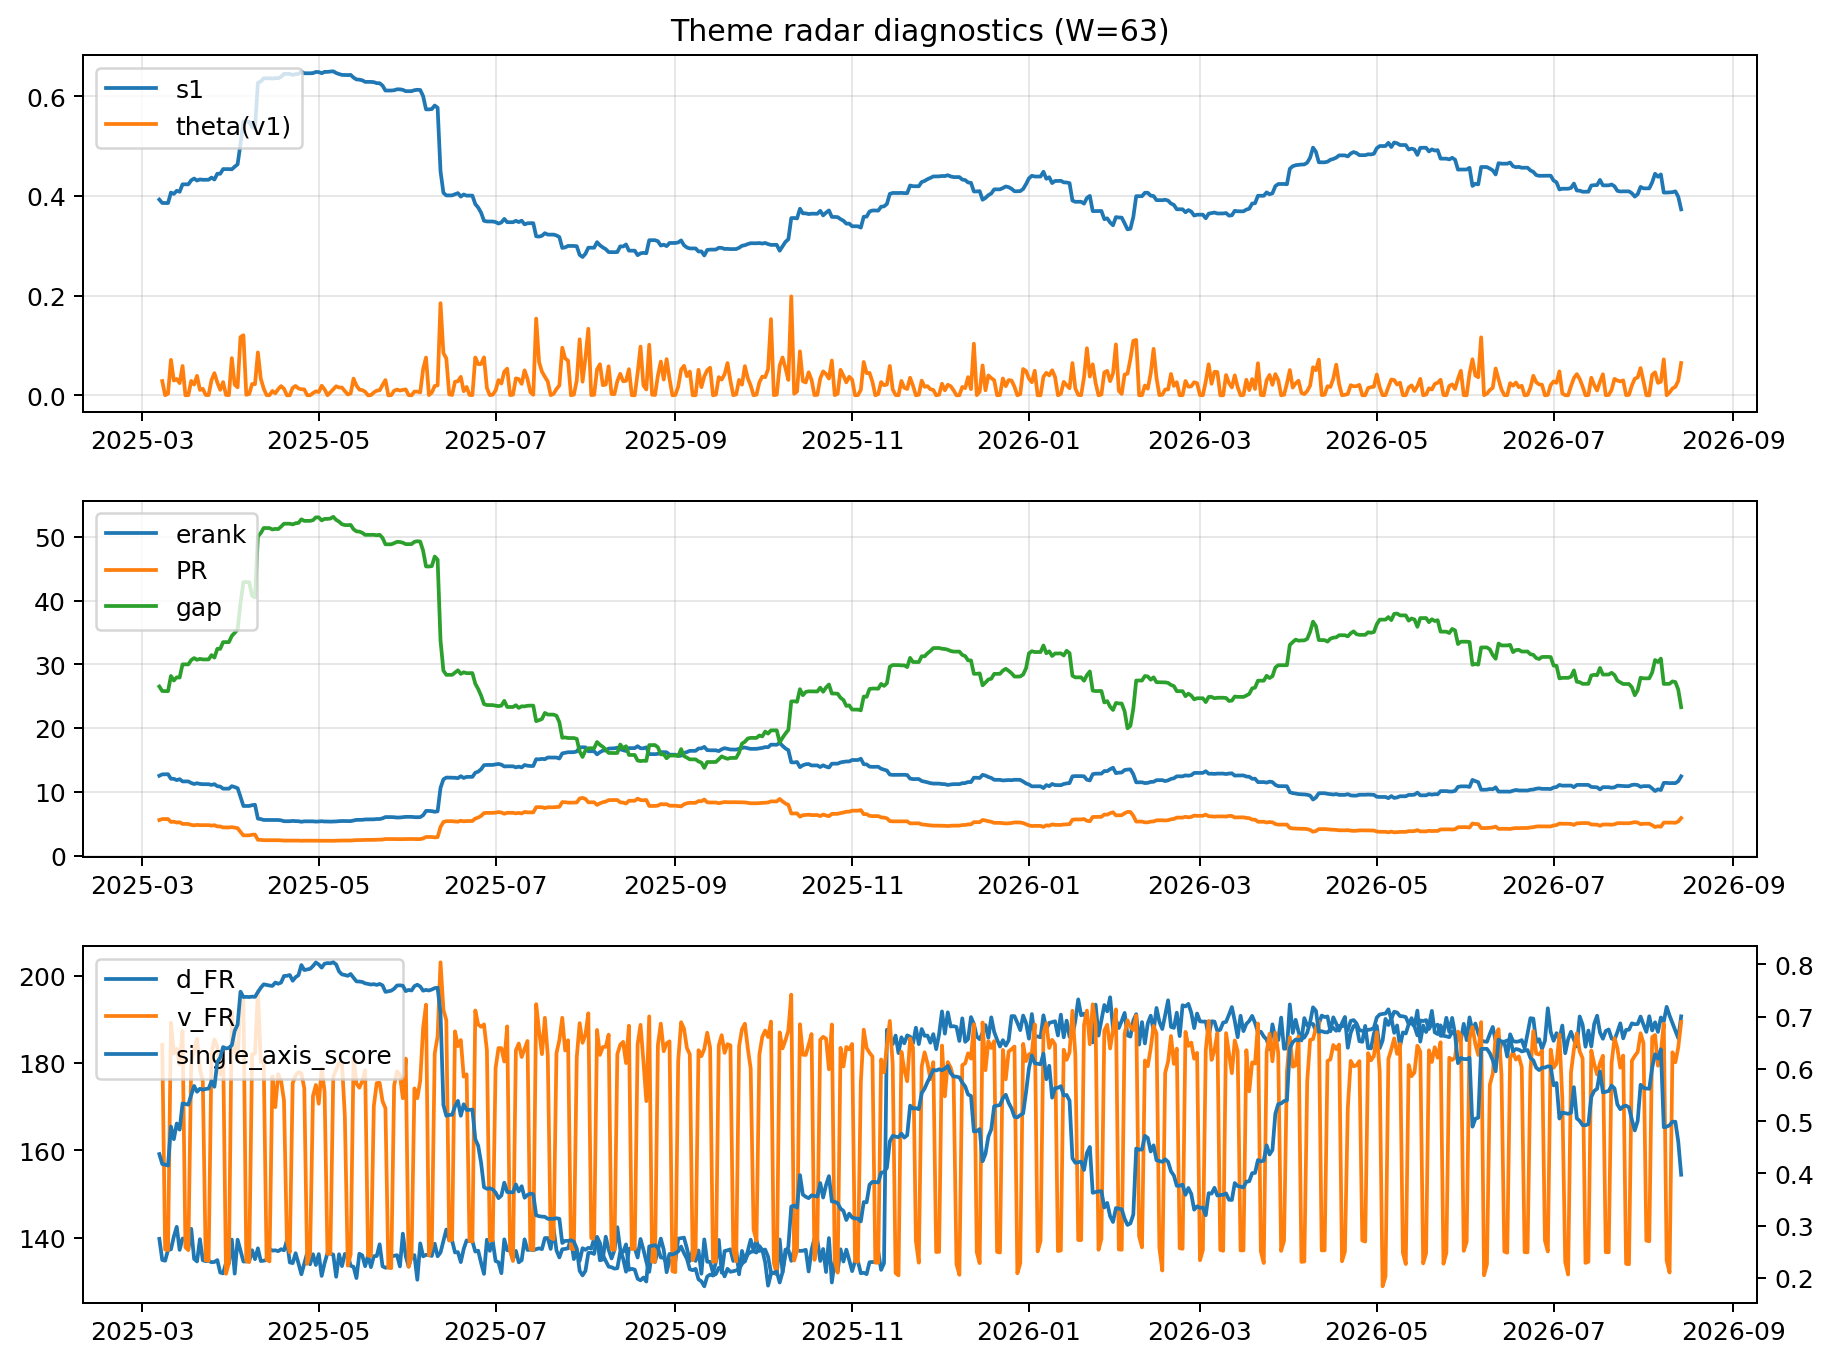
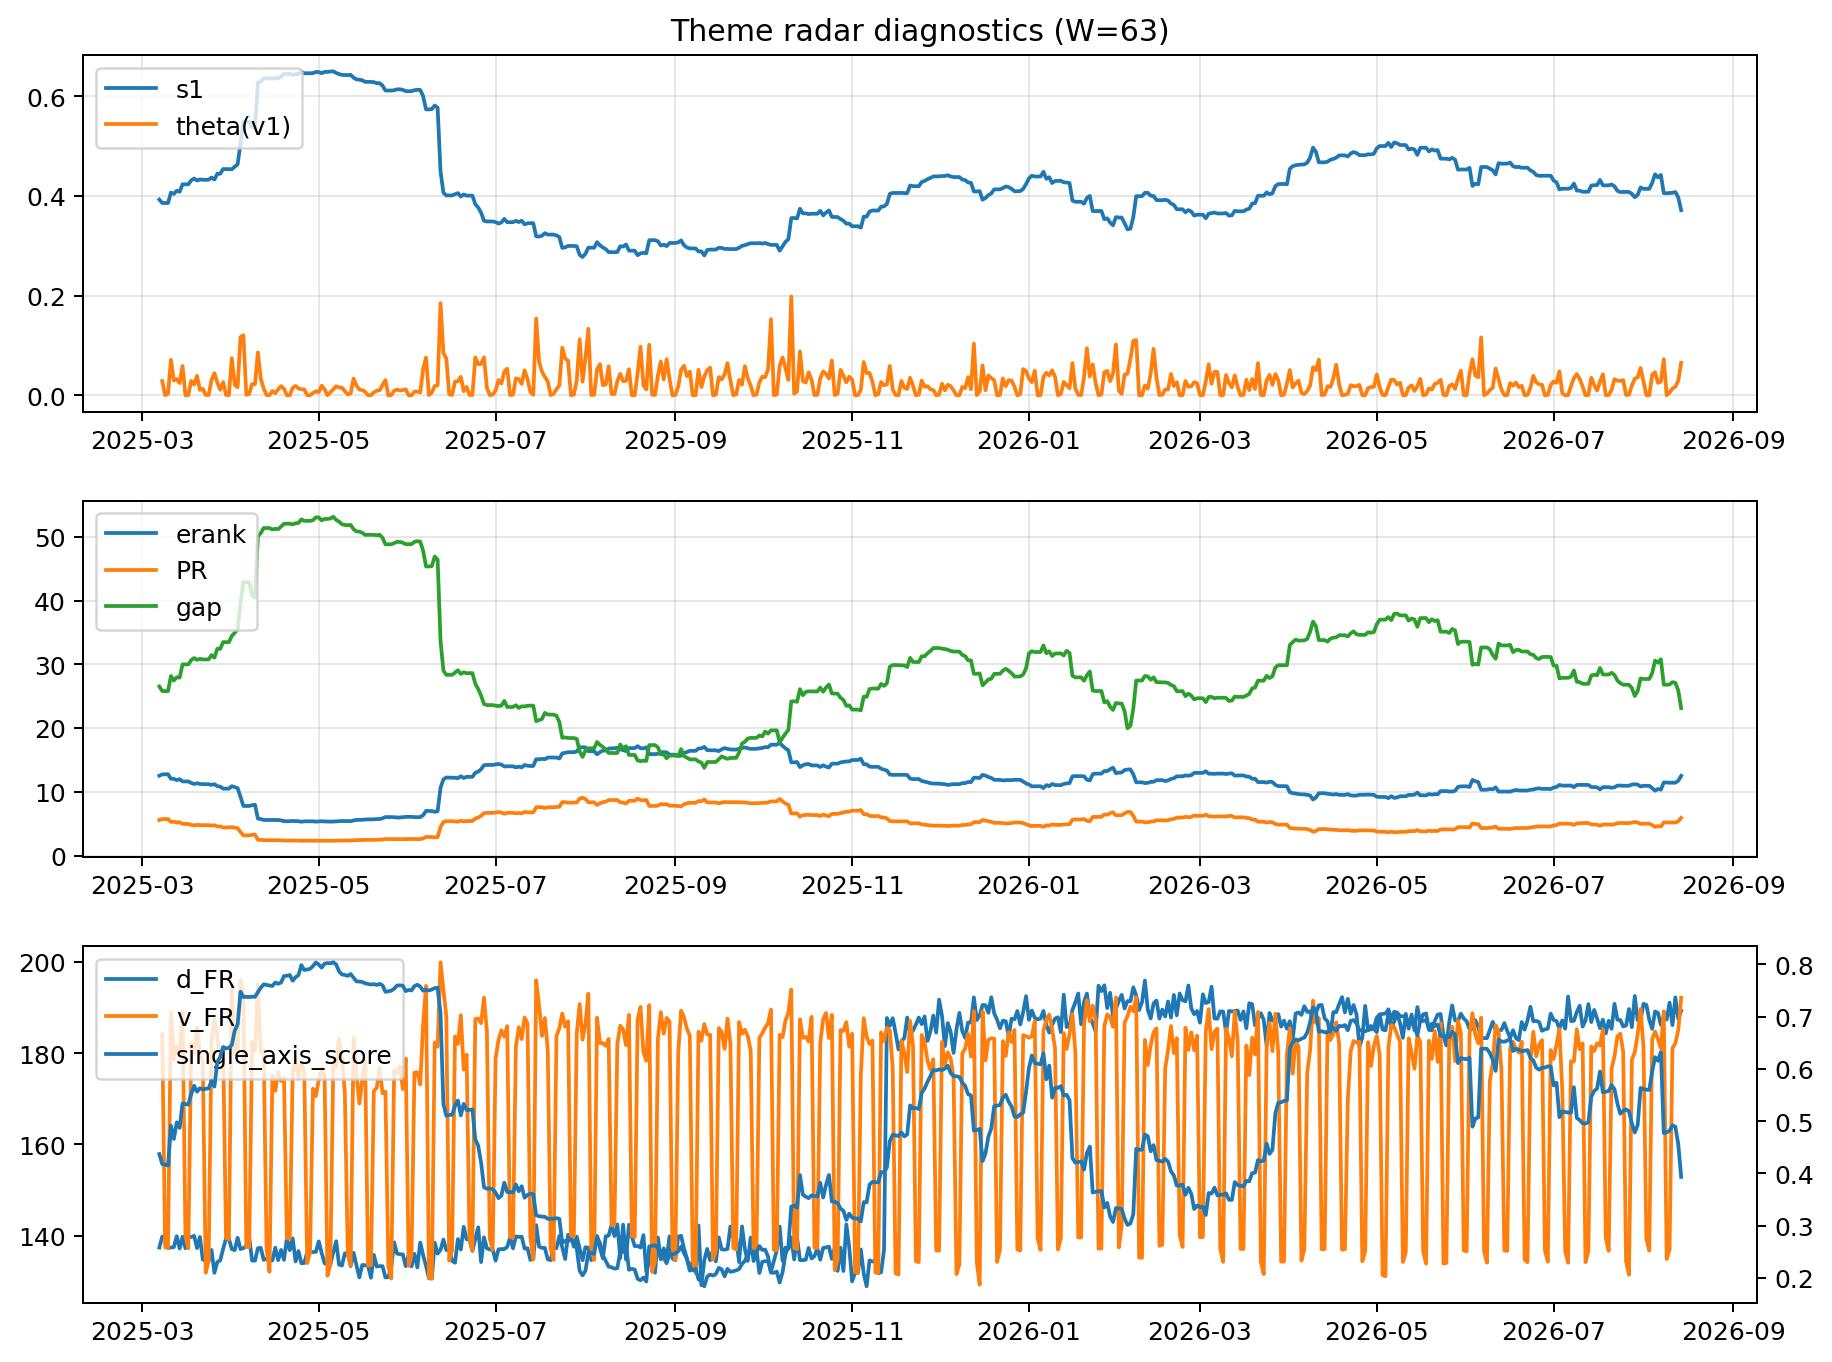
log: 2026-08-14 | sha256:568bfd0bf844f996eaf56617c1e37ab0a4eb4aa0bcd3234d0d1272045fce18af

diff --git a/logs/2026-08-14.md b/logs/2026-08-14.md
@@ -3,44 +3,44 @@
 ![diagnostic W63](../assets/diagnostic/2026-08-14_W63.png)
 
 ## Leaders (v1) — W=63
-- **Nuclear_Uranium** (0.0907645378377532)
-- Semis (0.0753262956000631)
-- Quantum (0.0649253775557116)
+- **Nuclear_Uranium** (0.0890273438534274)
+- Semis (0.0754850051142476)
+- Quantum (0.0650448614944569)
 
 ## Challengers — W=63
-**v2:** Rates (0.0845995405685314), Software_Cloud (0.0798082060045817), Semis (0.0772698339115411)
-**v3:** Metals (0.107679937102874), DataCenter_Infra (0.0723327533656262), Crypto (0.0722710238373272)
+**v2:** Rates (0.0844047949570716), Software_Cloud (0.0800534479558971), Semis (0.0765567665622753)
+**v3:** Metals (0.1099377241398908), Crypto (0.0739771404513913), DataCenter_Infra (0.0723274983489538)
 
 ## Migration (20D slope) — W=63
 **Top risers:**
-- axis_Commodities: 0.0005727357174201
-- axis_Semis: 0.0003135129974472
-- axis_Quantum: 0.0002589723243215
-- axis_Grid_Power: 0.0002058780871242
-- axis_DataCenter_Infra: 0.0001989223147399
-- axis_Sector_Energy: 0.0001842500885972
-- axis_Defense: 0.0001421383660285
-- axis_Cyber: 0.0001391449925444
-- axis_Genomics_Bio: 0.0001259569167548
-- axis_Sector_Health: 0.0001190361736395
+- axis_Commodities: 0.0005742711640206
+- axis_Semis: 0.0003163329564642
+- axis_Quantum: 0.0002623926343053
+- axis_Grid_Power: 0.0002070282668669
+- axis_DataCenter_Infra: 0.0002026044072578
+- axis_Sector_Energy: 0.0001847411157434
+- axis_Defense: 0.0001439014384766
+- axis_Cyber: 0.0001408057260735
+- axis_Genomics_Bio: 0.0001254528203404
+- axis_Sector_Health: 0.0001195812012685
 
 **Top fallers:**
-- axis_Sector_Materials: -9.555450904339164e-05
-- axis_Critical_Minerals: -0.0001394616491342
-- axis_USD: -0.0001488244006529
-- axis_Vol: -0.0001568476076545
-- axis_Sector_Comm: -0.0001634732604422
-- axis_Crypto: -0.0002007267896115
-- axis_MegaCap_AI: -0.0002121353728897
-- axis_Miners: -0.0002428486266014
-- axis_Rates: -0.0004487240909344
-- axis_Metals: -0.0005917333683919
+- axis_Sector_Materials: -9.61999562482894e-05
+- axis_Critical_Minerals: -0.0001400197234026
+- axis_USD: -0.0001492859972553
+- axis_Vol: -0.0001578437677188
+- axis_Sector_Comm: -0.0001640641873638
+- axis_Crypto: -0.0002040762537195
+- axis_MegaCap_AI: -0.0002100680219127
+- axis_Miners: -0.000244133321892
+- axis_Rates: -0.000449915493635
+- axis_Metals: -0.0005941219355247
 
 ## Risk line (W=63)
-- s1: 0.3729336591889026
-- theta_v1: 0.0647766488637919
-- v_FR: 189.41049392592265
-- single_axis_score: 0.3973384030418251
+- s1: 0.3714248406921037
+- theta_v1: 0.0651269196664331
+- v_FR: 192.12709433049017
+- single_axis_score: 0.3931558935361217
 
 ## Interpretation
 **Regime:** `structure_rewrite`
@@ -48,7 +48,7 @@
 - Action: Tomorrow watchlist: Commodities, Semis, Quantum, Grid_Power, DataCenter_Infra + v2_top1=Rates
 - Action: Hedge note: v_FR high + theta high → correlation structure unstable; diversify hedges / reduce reliance on static correlations.
 
-- Percentiles (W=63 history): vfr_pct=0.95, theta_pct=0.92, s1_pct=0.33, score_pct=0.34.
+- Percentiles (W=63 history): vfr_pct=0.98, theta_pct=0.92, s1_pct=0.33, score_pct=0.34.
 
 ---
[2 lines of base64/hex data omitted]
